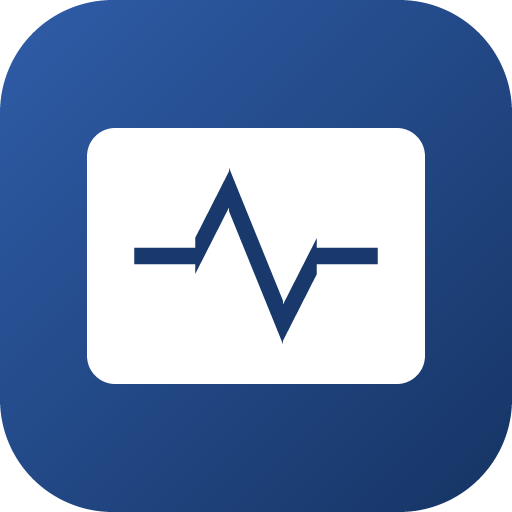
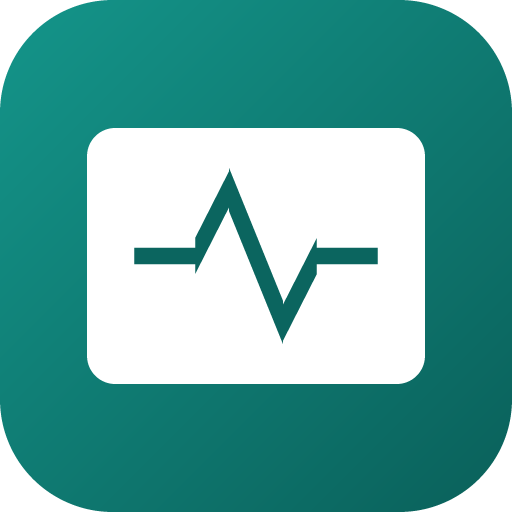
Palette C (Graphite + Teal)

diff --git a/src/styles.css b/src/styles.css
@@ -17,41 +17,41 @@
 
 :root {
   /* board stock: the album cover and its pages */
-  --board: #F3F5F8;
-  --board-2: #EAEEF3;          /* board, one step down: inputs, badges, tabs */
-  --well: #E3E8EF;             /* the sleeve's inside: the pocket the card is seated in */
-  --desk: #CFD6E0;             /* the surface the album lies on (wide screens) */
-  --board-edge: #D5DBE4;       /* the cut edge of the board */
+  --board: #F4F5F6;
+  --board-2: #EBEDEF;          /* board, one step down: inputs, badges, tabs */
+  --well: #E3E6E8;             /* the sleeve's inside: the pocket the card is seated in */
+  --desk: #D0D4D7;             /* the surface the album lies on (wide screens) */
+  --board-edge: #D6D9DC;       /* the cut edge of the board */
   --sleeve: #FFFFFF;           /* a page: panels and fields */
   --sleeve-lip: #FFFFFF;       /* the lit front edge of a sleeve's mouth */
 
   /* ink */
-  --ink: #111B2E;
-  --ink-2: #3F4A5E;
-  --ink-3: #4C5669;            /* 5.56:1 on board, 4.85:1 in the well */
-  --rule: rgba(17,27,46,.13);  /* the ruled register line */
-  --rule-soft: rgba(17,27,46,.07);
+  --ink: #16191D;
+  --ink-2: #40454C;
+  --ink-3: #4E545C;            /* 5.56:1 on board, 4.85:1 in the well */
+  --rule: rgba(22,25,29,.13);  /* the ruled register line */
+  --rule-soft: rgba(22,25,29,.07);
 
   /* the working colour: bottle green, the colour of file cloth and ledger tape */
-  --green: #1C3F73;
+  --green: #0F766E;
   --green-ink: #FFFFFF;
-  --green-wash: rgba(28,63,115,.09);
-  --green-edge: rgba(28,63,115,.28);
+  --green-wash: rgba(15,118,110,.09);
+  --green-edge: rgba(15,118,110,.28);
 
   /* the red thread: flags and nothing else */
   --red: #B3261E;
   --red-wash: rgba(179,38,30,.09);
 
   /* states borrowed from the register's own marks */
-  --amber: #A4501F;
-  --amber-wash: rgba(164,80,31,.13);
+  --amber: #B45309;
+  --amber-wash: rgba(180,83,9,.13);
 
-  --punch: rgba(17,27,46,.22);  /* the ring of a punched hole */
-  --punch-hole: #C7CFDB;        /* what shows through it */
+  --punch: rgba(22,25,29,.22);  /* the ring of a punched hole */
+  --punch-hole: #C8CCD0;        /* what shows through it */
 
   /* one elevation, declared by the sleeve itself */
-  --seat: 0 1px 0 rgba(255,255,255,.7) inset, 0 1px 2px rgba(17,27,46,.10), 0 6px 14px rgba(17,27,46,.07);
-  --seat-deep: 0 2px 6px rgba(17,27,46,.16), 0 14px 32px rgba(17,27,46,.14);
+  --seat: 0 1px 0 rgba(255,255,255,.7) inset, 0 1px 2px rgba(22,25,29,.10), 0 6px 14px rgba(22,25,29,.07);
+  --seat-deep: 0 2px 6px rgba(22,25,29,.16), 0 14px 32px rgba(22,25,29,.14);
 
   --r-card: 3px;               /* a business card's own corner radius */
   --r-sleeve: 5px;
@@ -70,27 +70,27 @@
 
 @media (prefers-color-scheme: dark) {
   :root:not([data-theme='light']) {
-    --board: #0E1524; --board-2: #141D30; --board-edge: #1F2B42; --well: #0A101C; --desk: #070B14;
-    --sleeve: #182238; --sleeve-lip: rgba(255,255,255,.14);
-    --ink: #E9EEF6; --ink-2: rgba(233,238,246,.78); --ink-3: rgba(233,238,246,.60);
-    --rule: rgba(233,238,246,.16); --rule-soft: rgba(233,238,246,.08);
-    --green: #8AAEEA; --green-ink: #0A1830; --green-wash: rgba(138,174,234,.15); --green-edge: rgba(138,174,234,.34);
+    --board: #111315; --board-2: #181B1E; --board-edge: #25292D; --well: #0B0D0F; --desk: #060708;
+    --sleeve: #1E2226; --sleeve-lip: rgba(255,255,255,.14);
+    --ink: #ECEEF0; --ink-2: rgba(236,238,240,.78); --ink-3: rgba(236,238,240,.60);
+    --rule: rgba(236,238,240,.16); --rule-soft: rgba(236,238,240,.08);
+    --green: #4FC1B5; --green-ink: #062A27; --green-wash: rgba(79,193,181,.15); --green-edge: rgba(79,193,181,.34);
     --red: #F27D74; --red-wash: rgba(242,125,116,.14);
-    --amber: #E89A66; --amber-wash: rgba(232,154,102,.16);
-    --punch: rgba(0,0,0,.6); --punch-hole: #070C16;
+    --amber: #E8A25C; --amber-wash: rgba(232,162,92,.16);
+    --punch: rgba(0,0,0,.6); --punch-hole: #08090A;
     --seat: 0 1px 0 rgba(255,255,255,.06) inset, 0 1px 2px rgba(0,0,0,.5);
     --seat-deep: 0 2px 8px rgba(0,0,0,.55), 0 16px 34px rgba(0,0,0,.45);
   }
 }
 :root[data-theme='dark'] {
-  --board: #0E1524; --board-2: #141D30; --board-edge: #1F2B42; --well: #0A101C; --desk: #070B14;
-  --sleeve: #182238; --sleeve-lip: rgba(255,255,255,.14);
-  --ink: #E9EEF6; --ink-2: rgba(233,238,246,.78); --ink-3: rgba(233,238,246,.60);
-  --rule: rgba(233,238,246,.16); --rule-soft: rgba(233,238,246,.08);
-  --green: #8AAEEA; --green-ink: #0A1830; --green-wash: rgba(138,174,234,.15); --green-edge: rgba(138,174,234,.34);
+  --board: #111315; --board-2: #181B1E; --board-edge: #25292D; --well: #0B0D0F; --desk: #060708;
+  --sleeve: #1E2226; --sleeve-lip: rgba(255,255,255,.14);
+  --ink: #ECEEF0; --ink-2: rgba(236,238,240,.78); --ink-3: rgba(236,238,240,.60);
+  --rule: rgba(236,238,240,.16); --rule-soft: rgba(236,238,240,.08);
+  --green: #4FC1B5; --green-ink: #062A27; --green-wash: rgba(79,193,181,.15); --green-edge: rgba(79,193,181,.34);
   --red: #F27D74; --red-wash: rgba(242,125,116,.14);
-  --amber: #E89A66; --amber-wash: rgba(232,154,102,.16);
-  --punch: rgba(0,0,0,.6); --punch-hole: #070C16;
+  --amber: #E8A25C; --amber-wash: rgba(232,162,92,.16);
+  --punch: rgba(0,0,0,.6); --punch-hole: #08090A;
   --seat: 0 1px 0 rgba(255,255,255,.06) inset, 0 1px 2px rgba(0,0,0,.5);
   --seat-deep: 0 2px 8px rgba(0,0,0,.55), 0 16px 34px rgba(0,0,0,.45);
 }
@@ -153,10 +153,10 @@ button {
   font: inherit; font-weight: 600; font-size: var(--t-m); min-height: 40px; padding: 0 14px;
   border-radius: var(--r-sleeve); border: 1px solid var(--board-edge); background: var(--sleeve); color: var(--ink);
   cursor: pointer; display: inline-flex; align-items: center; justify-content: center; gap: 8px;
-  box-shadow: 0 1px 0 rgba(255,255,255,.6) inset, 0 1px 1px rgba(17,27,46,.07);
+  box-shadow: 0 1px 0 rgba(255,255,255,.6) inset, 0 1px 1px rgba(22,25,29,.07);
   transition: transform var(--dur-1) var(--ease), background var(--dur-1) linear, box-shadow var(--dur-1) var(--ease);
 }
-button:active:not(:disabled) { transform: translateY(1px); box-shadow: 0 1px 2px rgba(17,27,46,.14) inset }
+button:active:not(:disabled) { transform: translateY(1px); box-shadow: 0 1px 2px rgba(22,25,29,.14) inset }
 button:disabled { opacity: .45; cursor: default }
 
 /* the press bar: the one green slab, full width, in the thumb zone */
@@ -164,9 +164,9 @@ button.cta {
   width: 100%; min-height: 50px; background: var(--green); color: var(--green-ink); border: 0;
   border-radius: var(--r-sleeve); font-size: var(--t-m); letter-spacing: .1em; text-transform: uppercase;
   font-variation-settings: 'wdth' 84;
-  box-shadow: 0 1px 0 rgba(255,255,255,.22) inset, 0 2px 0 rgba(10,25,55,.55), 0 8px 18px rgba(28,63,115,.26);
+  box-shadow: 0 1px 0 rgba(255,255,255,.22) inset, 0 2px 0 rgba(5,50,46,.55), 0 8px 18px rgba(15,118,110,.26);
 }
-button.cta:active:not(:disabled) { transform: translateY(2px); box-shadow: 0 1px 0 rgba(255,255,255,.18) inset, 0 0 0 rgba(10,25,55,.5) }
+button.cta:active:not(:disabled) { transform: translateY(2px); box-shadow: 0 1px 0 rgba(255,255,255,.18) inset, 0 0 0 rgba(5,50,46,.5) }
 button.cta.small { width: auto; min-height: 44px; font-size: var(--t-m); padding: 0 22px }
 button.outline { background: transparent; border: 1px solid var(--board-edge); box-shadow: none; width: 100% }
 button.outline.center { width: auto; margin: 14px auto 0; padding: 0 22px }
@@ -255,12 +255,12 @@ label.check { display: flex; align-items: center; gap: 9px; font-size: var(--t-s
 /* the band itself, crossing the stack near its top */
 .band::before {
   content: ''; position: absolute; left: -7px; right: -7px; top: 9px; height: 10px; border-radius: 1px; z-index: 2;
-  background: linear-gradient(180deg, #C4682F 0 38%, #A4501F 38% 74%, #7F3C14);
-  box-shadow: 0 2px 5px rgba(17,27,46,.34), 0 1px 0 rgba(255,255,255,.18) inset;
+  background: linear-gradient(180deg, #C8681A 0 38%, #B45309 38% 74%, #8A3F06);
+  box-shadow: 0 2px 5px rgba(22,25,29,.34), 0 1px 0 rgba(255,255,255,.18) inset;
   pointer-events: none;
 }
 /* where the band bites into the stack */
-.band::after { content: ''; position: absolute; left: -7px; right: -7px; top: 19px; height: 7px; z-index: 1; background: linear-gradient(180deg, rgba(17,27,46,.2), transparent); pointer-events: none }
+.band::after { content: ''; position: absolute; left: -7px; right: -7px; top: 19px; height: 7px; z-index: 1; background: linear-gradient(180deg, rgba(22,25,29,.2), transparent); pointer-events: none }
 .band-label {
   position: absolute; right: 4px; top: -6px; z-index: 3; font-size: var(--t-xs); font-weight: 600; letter-spacing: .14em;
   text-transform: uppercase; font-variation-settings: 'wdth' 76; color: var(--ink-3);
@@ -273,11 +273,11 @@ label.check { display: flex; align-items: center; gap: 9px; font-size: var(--t-s
   cursor: pointer; min-width: 0; border-radius: var(--r-sleeve); position: relative; overflow: hidden;
   /* the mouth's lit edge, then the pocket's own depth. No drop shadow: the row is cut in, not laid on. */
   background: var(--well);
-  box-shadow: inset 0 2px 0 var(--sleeve-lip), inset 0 5px 9px rgba(17,27,46,.17), inset 0 0 0 1px rgba(17,27,46,.07);
+  box-shadow: inset 0 2px 0 var(--sleeve-lip), inset 0 5px 9px rgba(22,25,29,.17), inset 0 0 0 1px rgba(22,25,29,.07);
   animation: seat .34s var(--ease) both; animation-delay: calc(min(var(--i, 0), 10) * 22ms);
   transition: box-shadow var(--dur-1) var(--ease);
 }
-.scan-row:active, .contact-row:active { box-shadow: inset 0 2px 0 var(--sleeve-lip), inset 0 7px 12px rgba(17,27,46,.24), inset 0 0 0 1px rgba(17,27,46,.09) }
+.scan-row:active, .contact-row:active { box-shadow: inset 0 2px 0 var(--sleeve-lip), inset 0 7px 12px rgba(22,25,29,.24), inset 0 0 0 1px rgba(22,25,29,.09) }
 .contact-row.off { opacity: .45 }
 .scan-row .grow, .contact-row .grow { display: flex; flex-direction: column; gap: 1px }
 .scan-row strong, .contact-row strong { font-size: var(--t-l); font-weight: 600; line-height: 1.2; overflow: hidden; text-overflow: ellipsis; white-space: nowrap; display: flex; align-items: center; gap: 6px }
@@ -293,14 +293,14 @@ label.check { display: flex; align-items: center; gap: 9px; font-size: var(--t-s
 .scan-thumb, .thumb {
   width: 84px; height: 48px; object-fit: cover; flex: none; border-radius: var(--r-card);
   background: var(--board-2);
-  box-shadow: 0 0 0 1px rgba(17,27,46,.16), 0 2px 3px rgba(17,27,46,.3), 0 0 0 3px rgba(255,255,255,.28) inset;
+  box-shadow: 0 0 0 1px rgba(22,25,29,.16), 0 2px 3px rgba(22,25,29,.3), 0 0 0 3px rgba(255,255,255,.28) inset;
 }
 .scan-thumb.blank { display: block }
 /* initials: a written index card of the same size, so a row without a photo keeps its rhythm */
 .avatar {
   display: inline-flex; align-items: center; justify-content: center; border-radius: var(--r-card) !important;
   font-weight: 600; flex: none; font-variation-settings: 'wdth' 80; letter-spacing: .06em;
-  box-shadow: 0 0 0 1px rgba(17,27,46,.16), 0 2px 3px rgba(17,27,46,.26);
+  box-shadow: 0 0 0 1px rgba(22,25,29,.16), 0 2px 3px rgba(22,25,29,.26);
 }
 @media (prefers-color-scheme: dark) { :root:not([data-theme='light']) .avatar { filter: brightness(.42) saturate(1.5) } }
 :root[data-theme='dark'] .avatar { filter: brightness(.42) saturate(1.5) }
@@ -388,11 +388,11 @@ label.check { display: flex; align-items: center; gap: 9px; font-size: var(--t-s
 .carousel img {
   flex: none; width: 100%; scroll-snap-align: center; height: min(54vw, 244px); object-fit: contain;
   background: var(--board-2); border-radius: var(--r-card); padding: 8px;
-  box-shadow: 0 0 0 1px rgba(17,27,46,.1) inset, var(--seat);
+  box-shadow: 0 0 0 1px rgba(22,25,29,.1) inset, var(--seat);
 }
 .carousel img[data-fit='cover'] { object-fit: cover; padding: 0 }
 .dots-row { display: flex; justify-content: center; gap: 6px; margin: 9px 0 } .dots-row i { width: 5px; height: 5px; border-radius: 50%; background: var(--board-edge) } .dots-row i.on { background: var(--green) }
-.lightbox { position: fixed; inset: 0; z-index: 20; background: rgba(4,8,14,.94); display: flex; align-items: center; justify-content: center; animation: fade-in var(--dur-2) var(--ease) both } .lightbox img { max-width: 100%; max-height: 100% }
+.lightbox { position: fixed; inset: 0; z-index: 20; background: rgba(6,8,9,.94); display: flex; align-items: center; justify-content: center; animation: fade-in var(--dur-2) var(--ease) both } .lightbox img { max-width: 100%; max-height: 100% }
 
 /* the name, written across the register's head */
 .namecard { padding: 2px 0 9px; margin: 8px 0 12px; position: relative; display: flex; flex-direction: column; gap: 3px; border-bottom: 1px solid var(--rule) }
@@ -425,7 +425,7 @@ button.add { min-height: 36px; padding: 0 2px; font-size: var(--t-s); background
 
 /* ---------- review: the proof sheet ---------- */
 .photo-frame { display: flex; justify-content: center; background: var(--board-2); border: 1px solid var(--board-edge); border-radius: var(--r-sleeve); padding: 13px; margin: 16px 0 10px }
-.photo-frame img { max-height: 152px; max-width: 100%; border-radius: var(--r-card); box-shadow: 0 0 0 1px rgba(17,27,46,.12), 0 2px 5px rgba(17,27,46,.2) }
+.photo-frame img { max-height: 152px; max-width: 100%; border-radius: var(--r-card); box-shadow: 0 0 0 1px rgba(22,25,29,.12), 0 2px 5px rgba(22,25,29,.2) }
 .sticky-cta { position: sticky; bottom: calc(12px + env(safe-area-inset-bottom)); margin-top: 18px; padding-top: 10px; background: linear-gradient(transparent, var(--board) 32%) }
 
 /* ---------- events: tab dividers ---------- */
@@ -497,12 +497,12 @@ nav button:active::before { background: var(--green-wash) }
 .toast-check { width: 27px; height: 27px; border-radius: 2px; background: var(--green); color: var(--green-ink); display: inline-flex; align-items: center; justify-content: center; flex: none; animation: stamp .34s .08s var(--ease) both }
 .flash { position: fixed; left: 50%; transform: translateX(-50%); bottom: calc(96px + env(safe-area-inset-bottom)); z-index: 10; background: var(--ink); color: var(--board); padding: 9px 15px; border-radius: 2px; font-size: var(--t-s); font-weight: 600; animation: slip-in .3s var(--ease) both; max-width: 84vw; text-align: center }
 
-.scrim { position: fixed; inset: 0; z-index: 8; background: rgba(6,10,20,.5); backdrop-filter: blur(3px); -webkit-backdrop-filter: blur(3px); animation: fade-in var(--dur-2) var(--ease) both }
+.scrim { position: fixed; inset: 0; z-index: 8; background: rgba(6,8,9,.5); backdrop-filter: blur(3px); -webkit-backdrop-filter: blur(3px); animation: fade-in var(--dur-2) var(--ease) both }
 .sheet-wrap { position: fixed; inset: 0; z-index: 30 } .sheet-wrap .scrim { position: absolute; z-index: auto } .sheet-wrap.out .scrim { animation: fade-out var(--dur-2) var(--ease) both }
 .sheet {
   position: absolute; left: 0; right: 0; bottom: 0; max-width: 560px; margin: auto; background: var(--sleeve);
   border-radius: var(--r-sleeve) var(--r-sleeve) 0 0; padding: 8px 8px calc(16px + env(safe-area-inset-bottom));
-  box-shadow: 0 -2px 0 var(--board-edge), 0 -14px 40px rgba(6,10,20,.3); animation: sheet-in var(--dur-3) var(--ease) both; max-height: 85dvh; overflow: auto;
+  box-shadow: 0 -2px 0 var(--board-edge), 0 -14px 40px rgba(6,8,9,.3); animation: sheet-in var(--dur-3) var(--ease) both; max-height: 85dvh; overflow: auto;
 }
 .sheet-wrap.out .sheet { animation: sheet-out var(--dur-2) var(--ease) both }
 .handle { display: block; width: 34px; height: 4px; border-radius: 2px; background: var(--board-edge); margin: 5px auto 9px }
@@ -536,8 +536,8 @@ nav button:active::before { background: var(--green-wash) }
 @keyframes ink { 0%, 70%, 100% { opacity: .28 } 35% { opacity: 1 } }
 @media (prefers-reduced-motion: reduce) { *, *::before, *::after { animation-duration: .001ms !important; animation-iteration-count: 1 !important; transition-duration: .001ms !important; scroll-behavior: auto !important } }
 /* ---------- the camera: a lit bench, the card held by photo corners ---------- */
-.camera { position: fixed; inset: 0; z-index: 10; background: #0A101A; color: #FBFAF7 }
-.camera .viewfinder { position: absolute; inset: 0; overflow: hidden; background: #0A101A }
+.camera { position: fixed; inset: 0; z-index: 10; background: #0C0E10; color: #FBFAF7 }
+.camera .viewfinder { position: absolute; inset: 0; overflow: hidden; background: #0C0E10 }
 .camera video { position: absolute; inset: 0; width: 100%; height: 100%; object-fit: cover }
 /* the guide is four photo corners, the way a card is mounted into an album page */
 .camera .guide {
@@ -552,22 +552,22 @@ nav button:active::before { background: var(--green-wash) }
 .camera .guide.faint { opacity: .55 }
 .camera .outline { position: absolute; inset: 0; pointer-events: none }
 .camera .outline polygon { fill: rgba(251,250,247,.10); stroke: #FBFAF7; stroke-width: 2.5; stroke-linejoin: round; transition: stroke var(--dur-2) var(--ease), fill var(--dur-2) var(--ease) }
-.camera .outline polygon.lock { stroke: #8AB4F2; fill: rgba(138,180,242,.18) }
-.camera .cam-top { position: absolute; top: 0; left: 0; right: 0; display: flex; align-items: flex-start; justify-content: space-between; gap: 8px; padding: 12px; padding-top: calc(12px + env(safe-area-inset-top)); background: linear-gradient(rgba(4,8,16,.5), transparent) }
+.camera .outline polygon.lock { stroke: #5DD6C8; fill: rgba(93,214,200,.18) }
+.camera .cam-top { position: absolute; top: 0; left: 0; right: 0; display: flex; align-items: flex-start; justify-content: space-between; gap: 8px; padding: 12px; padding-top: calc(12px + env(safe-area-inset-top)); background: linear-gradient(rgba(6,8,9,.5), transparent) }
 .camera .cam-mid { display: flex; flex-direction: column; align-items: center; gap: 8px; min-width: 0 }
 .camera .round { width: 44px; height: 44px; min-height: 44px; padding: 0; border-radius: 50%; border: 0; display: inline-flex; align-items: center; justify-content: center; flex: none; color: #FBFAF7; background: none; box-shadow: none }
-.camera .round.dark { background: rgba(8,14,26,.62); backdrop-filter: blur(6px) }
-.camera .round.on { background: #FBFAF7; color: #0E1524 }
+.camera .round.dark { background: rgba(12,14,16,.62); backdrop-filter: blur(6px) }
+.camera .round.on { background: #FBFAF7; color: #111315 }
 .camera .round.accent { background: var(--green); color: #FBFAF7 }
 .camera .round.ghost { background: none }
-.camera .pillbar { background: rgba(8,14,26,.62); backdrop-filter: blur(6px); padding: 6px 15px; border-radius: 2px; font-size: var(--t-m); font-weight: 600; white-space: nowrap; color: #FBFAF7; letter-spacing: .04em }
+.camera .pillbar { background: rgba(12,14,16,.62); backdrop-filter: blur(6px); padding: 6px 15px; border-radius: 2px; font-size: var(--t-m); font-weight: 600; white-space: nowrap; color: #FBFAF7; letter-spacing: .04em }
 .camera .pillbar.sub { font-size: var(--t-xs); font-weight: 600; padding: 3px 10px; letter-spacing: .1em; text-transform: uppercase; font-variation-settings: 'wdth' 80 }
-.camera .seg { display: flex; background: rgba(8,14,26,.62); backdrop-filter: blur(6px); border-radius: 3px; padding: 3px }
+.camera .seg { display: flex; background: rgba(12,14,16,.62); backdrop-filter: blur(6px); border-radius: 3px; padding: 3px }
 .camera .seg button { border: 0; background: none; color: #FBFAF7; min-height: 32px; padding: 0 12px; border-radius: 2px; font-size: var(--t-xs); font-weight: 600; letter-spacing: .1em; text-transform: uppercase; font-variation-settings: 'wdth' 80; white-space: nowrap; box-shadow: none }
-.camera .seg button.on { background: #FBFAF7; color: #0E1524 }
-.camera .skip { position: absolute; top: calc(148px + env(safe-area-inset-top)); left: 50%; transform: translateX(-50%); min-height: 32px; padding: 0 15px; background: #FBFAF7; color: #0E1524; border: 0; font-size: var(--t-xs); letter-spacing: .1em; text-transform: uppercase; box-shadow: none }
-.camera .tips { min-height: 0; padding: 7px 12px; border: 0; border-radius: 3px; background: rgba(8,14,26,.7); backdrop-filter: blur(6px); color: rgba(251,250,247,.92); font-size: var(--t-s); font-weight: 500; box-shadow: none; text-align: center }
-.camera .cam-bottom { position: absolute; left: 0; right: 0; bottom: 0; padding: 16px 16px calc(16px + env(safe-area-inset-bottom)); background: linear-gradient(transparent, rgba(4,8,16,.65)); display: flex; flex-direction: column; align-items: center; gap: 15px }
+.camera .seg button.on { background: #FBFAF7; color: #111315 }
+.camera .skip { position: absolute; top: calc(148px + env(safe-area-inset-top)); left: 50%; transform: translateX(-50%); min-height: 32px; padding: 0 15px; background: #FBFAF7; color: #111315; border: 0; font-size: var(--t-xs); letter-spacing: .1em; text-transform: uppercase; box-shadow: none }
+.camera .tips { min-height: 0; padding: 7px 12px; border: 0; border-radius: 3px; background: rgba(12,14,16,.7); backdrop-filter: blur(6px); color: rgba(251,250,247,.92); font-size: var(--t-s); font-weight: 500; box-shadow: none; text-align: center }
+.camera .cam-bottom { position: absolute; left: 0; right: 0; bottom: 0; padding: 16px 16px calc(16px + env(safe-area-inset-bottom)); background: linear-gradient(transparent, rgba(6,8,9,.65)); display: flex; flex-direction: column; align-items: center; gap: 15px }
 .camera .toggles { display: flex; gap: 24px }
 .camera .toggle { display: flex; flex-direction: column; align-items: center; gap: 4px; margin: 0; font-size: var(--t-xs); letter-spacing: .1em; text-transform: uppercase; font-variation-settings: 'wdth' 80; color: #FBFAF7; cursor: pointer }
 .camera .toggle > span:not(.round) { color: #FBFAF7; margin: 0; font-size: var(--t-xs); letter-spacing: .1em; text-transform: uppercase }
@@ -576,7 +576,7 @@ nav button:active::before { background: var(--green-wash) }
 /* the last pull, seated in its sleeve with a tally */
 .camera .last { position: relative; background: none; border: 0; padding: 0; min-height: 0; display: block; box-shadow: none }
 .camera .last img { width: 68px; height: 44px; object-fit: cover; border-radius: var(--r-card); border: 2px solid #FBFAF7; display: block }
-.camera .last b { position: absolute; top: -8px; right: -8px; min-width: 22px; height: 22px; border-radius: 2px; background: var(--green); color: #FBFAF7; font-size: var(--t-xs); display: flex; align-items: center; justify-content: center; padding: 0 6px; border: 2px solid #0A101A; font-variant-numeric: tabular-nums }
+.camera .last b { position: absolute; top: -8px; right: -8px; min-width: 22px; height: 22px; border-radius: 2px; background: var(--green); color: #FBFAF7; font-size: var(--t-xs); display: flex; align-items: center; justify-content: center; padding: 0 6px; border: 2px solid #0C0E10; font-variant-numeric: tabular-nums }
 .camera .shutter { width: 70px; height: 70px; min-height: 70px; padding: 0; border-radius: 50%; border: 0; background: #FBFAF7; box-shadow: 0 0 0 4px rgba(251,250,247,.34); transition: transform var(--dur-1) var(--ease) }
 .camera .shutter:active { transform: scale(.92) } .camera .shutter:disabled { opacity: .4 }
 .camera .err { padding: 32px; text-align: center; position: absolute; inset: 0; display: flex; align-items: center; justify-content: center }
@@ -633,7 +633,7 @@ nav button.on::after { content: ''; position: absolute; left: 50%; top: 0; width
 /* FIX 6: the actions button is a stamp on board, not a floating Material circle */
 .fab-main {
   width: auto; min-width: 58px; height: 52px; min-height: 52px; padding: 0 18px; border-radius: var(--r-tab);
-  background: var(--ink); color: var(--board); border: 0; box-shadow: 2px 2px 0 rgba(17,27,46,.22), var(--seat-deep);
+  background: var(--ink); color: var(--board); border: 0; box-shadow: 2px 2px 0 rgba(22,25,29,.22), var(--seat-deep);
   transition: background var(--dur-2) var(--ease), transform var(--dur-1) var(--ease);
 }
 .fab-main.open { background: var(--green); color: var(--green-ink); transform: none }
@@ -643,7 +643,7 @@ nav button.on::after { content: ''; position: absolute; left: 50%; top: 0; width
 /* FIX 8: on a wide screen the album lies on a desk, and uses the width */
 @media (min-width: 900px) {
   body { background: var(--desk) }
-  .app { max-width: 880px; box-shadow: 0 0 0 1px rgba(17,27,46,.1), 0 18px 60px rgba(17,27,46,.26) }
+  .app { max-width: 880px; box-shadow: 0 0 0 1px rgba(22,25,29,.1), 0 18px 60px rgba(22,25,29,.26) }
   .app::before { left: max(0px, calc(50% - 440px)) }
   nav, .scan-cta, .toast, .selbar { max-width: 880px }
   main { padding-left: calc(var(--spine) + 28px); padding-right: 28px }
@@ -701,7 +701,7 @@ nav button.on::after { content: ''; position: absolute; left: 50%; top: 0; width
 
 /* camera: everything outside the card is blurred and dimmed; the hole follows the card */
 .camera .veil {
-  position: absolute; inset: 0; pointer-events: none; background: rgba(4,8,16,.2);
+  position: absolute; inset: 0; pointer-events: none; background: rgba(6,8,9,.2);
   -webkit-backdrop-filter: blur(9px) brightness(.62) saturate(.85); backdrop-filter: blur(9px) brightness(.62) saturate(.85);
   transition: clip-path .12s linear;
 }
@@ -714,7 +714,7 @@ nav button.on::after { content: ''; position: absolute; left: 50%; top: 0; width
 .camera .tray { display: grid; grid-template-columns: repeat(6, 1fr); gap: 6px; width: 100% }
 .camera .slot {
   position: relative; aspect-ratio: 1.75; border-radius: 3px; border: 1px dashed rgba(251,250,247,.38);
-  background: rgba(8,14,26,.42); display: flex; align-items: center; justify-content: center;
+  background: rgba(12,14,16,.42); display: flex; align-items: center; justify-content: center;
 }
 .camera .slot i { font-style: normal; font-size: var(--t-xs); color: rgba(251,250,247,.5); font-variant-numeric: tabular-nums }
 .camera .slot img { width: 100%; height: 100%; object-fit: cover; border-radius: 2px; display: block }
@@ -723,12 +723,12 @@ nav button.on::after { content: ''; position: absolute; left: 50%; top: 0; width
 .camera .slot em { position: absolute; left: 3px; bottom: 2px; font-style: normal; font-size: var(--t-xs); font-weight: 600; letter-spacing: .04em; color: #fff; text-shadow: 0 1px 2px rgba(0,0,0,.8) }
 .camera .slot .rm {
   position: absolute; top: -8px; right: -8px; width: 18px; height: 18px; min-height: 0; padding: 0; border-radius: 50%;
-  background: #0E1524; color: #fff; border: 1.5px solid #FBFAF7; box-shadow: none; z-index: 1;
+  background: #111315; color: #fff; border: 1.5px solid #FBFAF7; box-shadow: none; z-index: 1;
 }
 .camera .slot .rm::after { content: ''; position: absolute; inset: -9px }
 .camera .readbtn {
   min-height: 44px; padding: 0 10px 0 14px; border-radius: 3px; background: var(--green); color: #FBFAF7; border: 0; font-size: var(--t-m);
-  letter-spacing: .02em; white-space: nowrap; box-shadow: 0 1px 0 rgba(255,255,255,.22) inset, 0 2px 0 rgba(10,25,55,.6); animation: slot-in .25s var(--ease) both;
+  letter-spacing: .02em; white-space: nowrap; box-shadow: 0 1px 0 rgba(255,255,255,.22) inset, 0 2px 0 rgba(5,50,46,.6); animation: slot-in .25s var(--ease) both;
 }
 .camera .readbtn:active { transform: translateY(1px) }
 .camera .round { width: 42px; height: 42px; min-height: 42px }

diff --git a/src/components/Logo.tsx b/src/components/Logo.tsx
@@ -3,11 +3,11 @@ export default function Logo({ size = 28 }: { size?: number }) {
   return (
     <svg width={size} height={size} viewBox="0 0 32 32" aria-hidden="true">
       <defs>
-        <linearGradient id="lg" x1="0" y1="0" x2="1" y2="1"><stop offset="0" stopColor="#2F5DA8" /><stop offset="1" stopColor="#1C3F73" /></linearGradient>
+        <linearGradient id="lg" x1="0" y1="0" x2="1" y2="1"><stop offset="0" stopColor="#14958A" /><stop offset="1" stopColor="#0F766E" /></linearGradient>
       </defs>
       <rect width="32" height="32" rx="7" fill="url(#lg)" />
       <rect x="5.5" y="8" width="21" height="16" rx="2.4" fill="#fff" />
-      <path d="M8.5 16.2h4l1.8-4.4 3 8.6 2-4.2h3.7" fill="none" stroke="#1C3F73" strokeWidth="1.5" strokeLinecap="round" strokeLinejoin="round" />
+      <path d="M8.5 16.2h4l1.8-4.4 3 8.6 2-4.2h3.7" fill="none" stroke="#0F766E" strokeWidth="1.5" strokeLinecap="round" strokeLinejoin="round" />
     </svg>
   )
 }

diff --git a/src/components/CardStack.tsx b/src/components/CardStack.tsx
@@ -6,10 +6,10 @@ export default function CardStack({ width = 132 }: { width?: number }) {
       <g transform="rotate(5 68 48)"><rect x="26" y="14" width="84" height="54" rx="7" fill="#F2EEE3" /></g>
       <g>
         <rect x="24" y="24" width="84" height="54" rx="7" fill="#FBF9F3" stroke="rgba(20,23,42,.08)" />
-        <circle cx="41" cy="41" r="6" fill="#C5D3EC" />
+        <circle cx="41" cy="41" r="6" fill="#BFE3DE" />
         <rect x="52" y="37" width="34" height="4" rx="2" fill="#1A1C29" opacity=".78" />
         <rect x="52" y="45" width="24" height="3" rx="1.5" fill="#1A1C29" opacity=".3" />
-        <path d="M32 62h14l4-9 6 17 5-11h15" fill="none" stroke="#1C3F73" strokeWidth="2.2" strokeLinecap="round" strokeLinejoin="round" />
+        <path d="M32 62h14l4-9 6 17 5-11h15" fill="none" stroke="#0F766E" strokeWidth="2.2" strokeLinecap="round" strokeLinejoin="round" />
       </g>
     </svg>
   )

diff --git a/public/privacy.html b/public/privacy.html
@@ -6,8 +6,8 @@
   <title>CardPulse — Privacy policy</title>
   <meta name="color-scheme" content="light dark" />
   <style>
-    :root { --bg:#F3F5F8; --ink:#111B2E; --ink2:rgba(17,27,46,.72); --line:rgba(17,27,46,.1); --accent:#1C3F73; }
-    @media (prefers-color-scheme: dark) { :root { --bg:#0E1524; --ink:#E9EEF6; --ink2:rgba(233,238,246,.74); --line:rgba(233,238,246,.12); --accent:#8AAEEA; } }
+    :root { --bg:#F4F5F6; --ink:#111B2E; --ink2:rgba(22,25,29,.72); --line:rgba(22,25,29,.1); --accent:#0F766E; }
+    @media (prefers-color-scheme: dark) { :root { --bg:#111315; --ink:#ECEEF0; --ink2:rgba(236,238,240,.74); --line:rgba(236,238,240,.12); --accent:#4FC1B5; } }
     * { box-sizing:border-box }
     body { margin:0; background:var(--bg); color:var(--ink); font:16px/1.6 system-ui,-apple-system,"Segoe UI",Roboto,sans-serif }
     main { max-width:680px; margin:0 auto; padding:32px 16px 64px }

diff --git a/index.html b/index.html
@@ -6,8 +6,8 @@
     <title>CardPulse — business cards to contacts</title>
     <meta name="description" content="Scan business cards into contacts. Reads several cards per photo, built for exhibitions." />
     <meta name="color-scheme" content="light dark" />
-    <meta name="theme-color" content="#F3F5F8" media="(prefers-color-scheme: light)" />
-    <meta name="theme-color" content="#0E1524" media="(prefers-color-scheme: dark)" />
+    <meta name="theme-color" content="#F4F5F6" media="(prefers-color-scheme: light)" />
+    <meta name="theme-color" content="#111315" media="(prefers-color-scheme: dark)" />
     <meta name="apple-mobile-web-app-capable" content="yes" />
     <meta name="mobile-web-app-capable" content="yes" />
     <meta name="apple-mobile-web-app-status-bar-style" content="default" />

diff --git a/src/components/Avatar.tsx b/src/components/Avatar.tsx
@@ -9,10 +9,10 @@ function hue(s: string) {
 
 /**
  * A written index tab, not a rainbow bubble: board stock tinted a few degrees off the album's own
- * blues and indigos, so a list of thirty reads as one page rather than a colour chart.
+ * teals and greens, so a list of thirty reads as one page rather than a colour chart.
  */
 export default function Avatar({ name, size = 44 }: { name: string; size?: number }) {
-  const h = 205 + (hue(name || "?") % 45)   // steel through indigo: the palette's own range
+  const h = 165 + (hue(name || "?") % 40)   // teal through green: the palette's own range
   return (
     <span
       className="avatar"

diff --git a/vite.config.ts b/vite.config.ts
@@ -24,8 +24,8 @@ export default defineConfig({
         description: 'Scan business cards into contacts. Reads several cards per photo, built for exhibitions.',
         categories: ['business', 'productivity'],
         lang: 'en-IN',
-        theme_color: '#1C3F73',
-        background_color: '#F3F5F8',
+        theme_color: '#0F766E',
+        background_color: '#F4F5F6',
         display: 'standalone',
         orientation: 'portrait',
         start_url: base,
